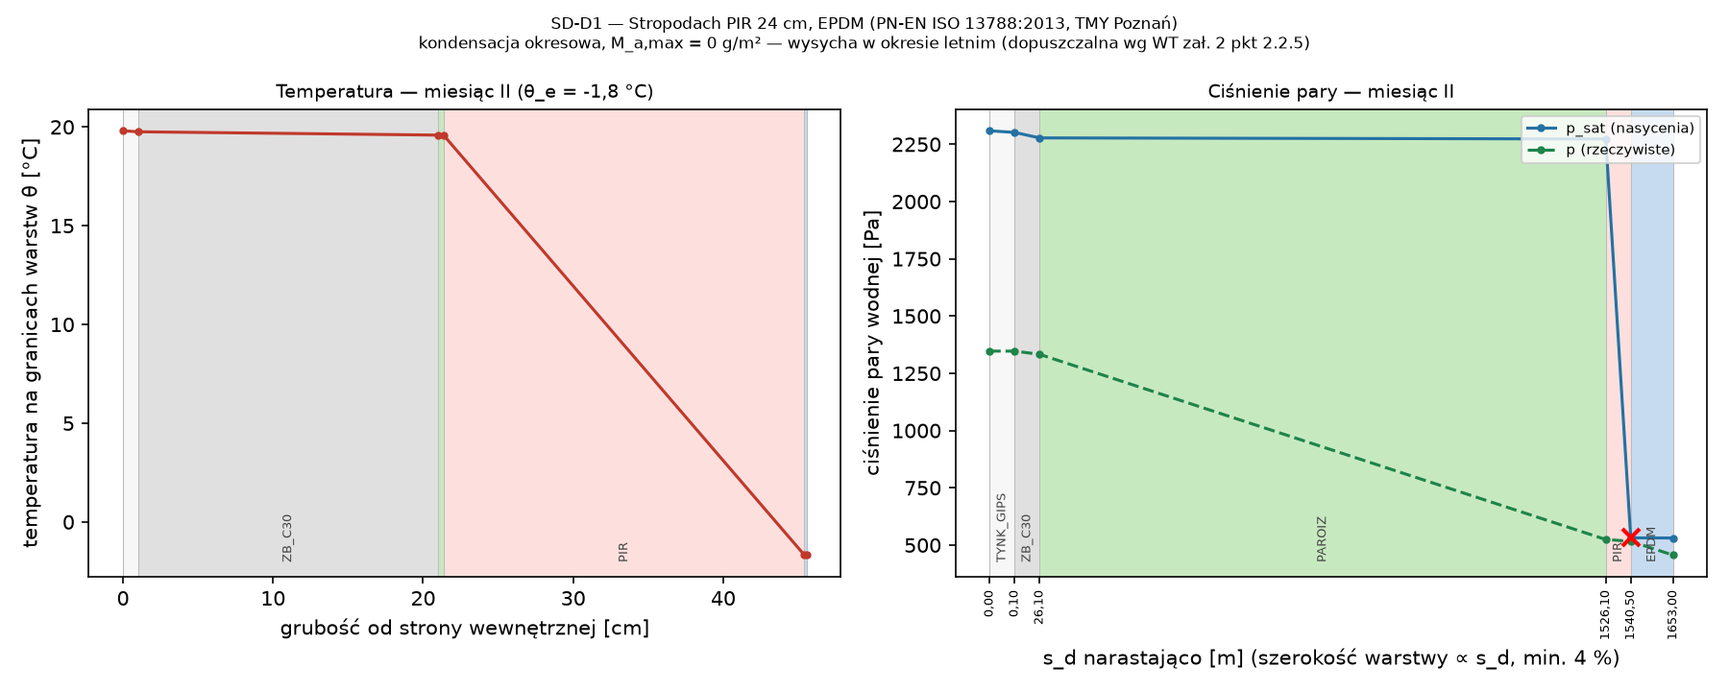
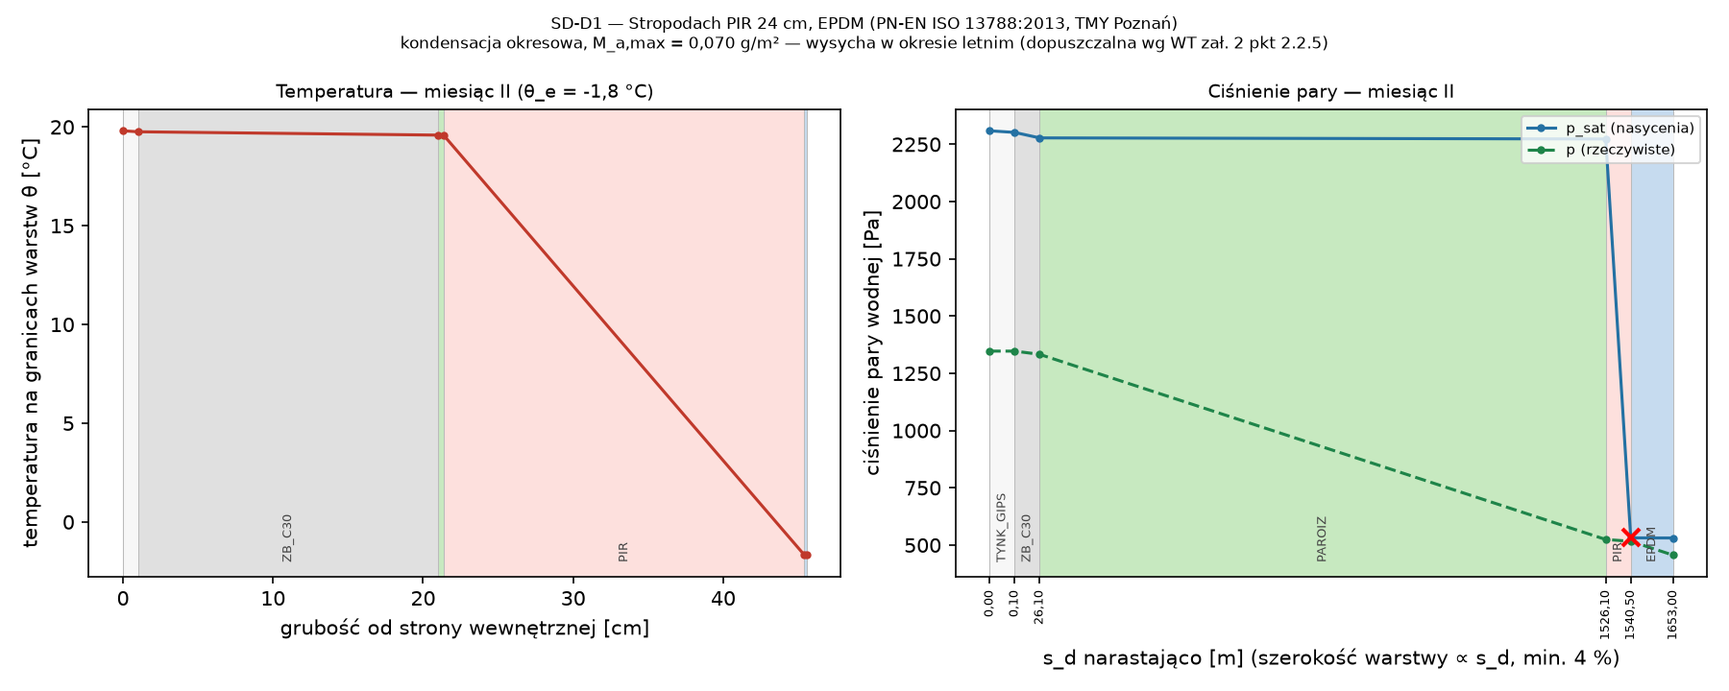
Prace robocze zespołów (autocommit)
Claude-Session: https://claude.ai/code/session_01FusXBHKDYGFEzgisqwGYyr

Changed region(s): [[0.2178, 0.0306, 0.7778, 0.0917]]

diff --git a/projekt/08_obliczenia/demo_test/dom_energia/09_charakterystyka_energetyczna.md b/projekt/08_obliczenia/demo_test/dom_energia/09_charakterystyka_energetyczna.md
@@ -14,11 +14,11 @@
 | okna i drzwi balkonowe | 16,00 |
 | drzwi zewnętrzne | 1,89 |
 | dachy/stropodachy | 9,03 |
-| stropy nad powietrzem zewn. | 0,55 |
+| stropy nad powietrzem zewn. | 0,63 |
 | grunt (f_g1·f_g2·G_w·A·U) | 4,64 |
 | przestrzenie nieogrzewane (b_u) | 8,22 |
 | mostki cieplne H_TB | 60,21 |
-| **H_tr razem** | **126,98** |
+| **H_tr razem** | **127,06** |
 | H_ve = 0,34·[(1 − η_oc)·V_su + V_x] (V_su = 150 m³/h, η_oc = 0,85, V_x = 29,9 m³/h) | 17,46 |
 
 A_f = 158,69 m²; V = 426,9 m³; θ_int,H = 20,64 °C; C_m = 41,3 MJ/K; τ = 79,3 h; a_H = 6,29.
@@ -28,15 +28,15 @@ A_f = 158,69 m²; V = 426,9 m³; θ_int,H = 20,64 °C; C_m = 41,3 MJ/K; τ = 79,
 | Wielkość | I | II | III | IV | V | VI | VII | VIII | IX | X | XI | XII | Rok |
 |:---|:---|:---|:---|:---|:---|:---|:---|:---|:---|:---|:---|:---|:---|
 | θ_e [°C] | 0,2 | −1,8 | 2,7 | 8,3 | 13,0 | 16,8 | 18,2 | 18,4 | 13,5 | 7,0 | 2,2 | −0,1 |  |
-| Q_tr | 1 935 | 1 911 | 1 692 | 1 132 | 726 | 348 | 226 | 213 | 651 | 1 288 | 1 689 | 1 963 | 13 773 |
+| Q_tr | 1 936 | 1 913 | 1 693 | 1 132 | 726 | 348 | 226 | 214 | 651 | 1 288 | 1 690 | 1 964 | 13 781 |
 | Q_ve | 266 | 263 | 233 | 156 | 100 | 48 | 31 | 29 | 90 | 177 | 232 | 270 | 1 894 |
 | Q_int | 803 | 725 | 803 | 777 | 803 | 777 | 803 | 803 | 777 | 803 | 777 | 803 | 9 453 |
 | Q_sol | 264 | 295 | 507 | 618 | 708 | 753 | 738 | 645 | 514 | 348 | 250 | 150 | 5 789 |
 | γ | 0,48 | 0,47 | 0,68 | 1,08 | 1,83 | 3,86 | 6,00 | 5,96 | 1,74 | 0,79 | 0,53 | 0,43 |  |
 | η_H,gn | 0,995 | 0,995 | 0,970 | 0,826 | 0,541 | 0,259 | 0,167 | 0,168 | 0,566 | 0,943 | 0,991 | 0,997 |  |
-| Q_H,nd | 1 139 | 1 159 | 655 | 135 | 8 | 0 | 0 | 0 | 10 | 379 | 903 | 1 283 | 5 672 |
+| Q_H,nd | 1 140 | 1 160 | 656 | 136 | 9 | 0 | 0 | 0 | 10 | 380 | 904 | 1 284 | 5 679 |
 | Q_W,nd | 325 | 293 | 325 | 314 | 325 | 314 | 325 | 325 | 314 | 325 | 314 | 325 | 3 822 |
-| Q_K,H | 296 | 301 | 170 | 35 | 2 | 0 | 0 | 0 | 3 | 99 | 235 | 334 | 1 475 |
+| Q_K,H | 297 | 302 | 171 | 35 | 2 | 0 | 0 | 0 | 3 | 99 | 235 | 334 | 1 477 |
 | Q_K,W | 162 | 146 | 162 | 157 | 162 | 157 | 162 | 162 | 157 | 162 | 157 | 162 | 1 908 |
 | E_pom | 62 | 56 | 62 | 60 | 44 | 42 | 44 | 44 | 42 | 62 | 60 | 62 | 641 |
 | E_PV | 126 | 154 | 303 | 396 | 516 | 517 | 492 | 421 | 311 | 184 | 121 | 73 | 3 614 |
@@ -50,7 +50,7 @@ A_f = 158,69 m²; V = 426,9 m³; θ_int,H = 20,64 °C; C_m = 41,3 MJ/K; τ = 79,
 | System | η_g | η_s | η_d | η_e | η_tot | Źródło |
 |:---|---:|---:|---:|---:|---:|:---|
 | ogrzewanie | 4,500 | 1,00 | 0,96 | 0,89 | 3,845 | SCOP = 4,50 (PN-EN 14825, dane przykładowe z karty katalogowej typowej pompy ciepła powietrze–woda R290 klasy A+++ (35 °C) 7–8 kW (lub równoważna)); η_H,e = 0,89 (tab. 3 lp. 6b), η_H,d = 0,96 (tab. 6 lp. 3a), η_H,s = 1,00 (tab. 8 lp. 3) |
-| c.w.u. | 3,200 | 0,888 | 0,80 | — | 2,273 | COP_cwu = 3,20 (PN-EN 16147); η_W,s = 0,888 (strata zasobnika 55 W); η_W,d = 0,80 (tab. 12 lp. 6.1a — cyrkulacja z ograniczeniem czasu pracy) |
+| c.w.u. | 3,200 | 0,888 | 0,80 | — | 2,273 | COP_cwu = 3,20 (PN-EN 16147); η_W,s = 0,888 (zasobnik 250 dm³, strata postojowa 55 W); η_W,d = 0,80 (tab. 12 lp. 6.1a — cyrkulacja z ograniczeniem czasu pracy) |
 
 | Urządzenie pomocnicze | P [W] | t [h/rok] | E [kWh/rok] | System |
 |:---|---:|---:|---:|:---|
@@ -63,10 +63,10 @@ A_f = 158,69 m²; V = 426,9 m³; θ_int,H = 20,64 °C; C_m = 41,3 MJ/K; τ = 79,
 
 | Wskaźnik | Wartość | Jedn. |
 |:---|---:|:---|
-| Q_H,nd (ogrzewanie i wentylacja) | 5 672 | kWh/rok |
+| Q_H,nd (ogrzewanie i wentylacja) | 5 679 | kWh/rok |
 | Q_W,nd (c.w.u., wzór (61)) | 3 822 | kWh/rok |
-| EU = (Q_H,nd + Q_W,nd)/A_f | 59,8 | kWh/(m²·rok) |
-| Q_K = Q_K,H + Q_K,W + E_el,pom | 4 025 | kWh/rok |
+| EU = (Q_H,nd + Q_W,nd)/A_f | 59,9 | kWh/(m²·rok) |
+| Q_K = Q_K,H + Q_K,W + E_el,pom | 4 026 | kWh/rok |
 | EK = Q_K/A_f | 25,4 | kWh/(m²·rok) |
 | Produkcja PV / zużyta przez systemy (w = 0) | 3 614 / 1 505 | kWh/rok |
 | EP_H (ogrzewanie + pomocnicze H) | 23,9 | kWh/(m²·rok) |
@@ -76,7 +76,7 @@ A_f = 158,69 m²; V = 426,9 m³; θ_int,H = 20,64 °C; C_m = 41,3 MJ/K; τ = 79,
 | Wynik | ✔ spełnia |  |
 | E_CO2 | 0,0088 | t CO2/(m²·rok) |
 | U_oze (wzór (100)) [INT] | 76,9 | % |
-| Koszt energii (eksploatacja) [ZAŁ] | 3 186 | zł/rok |
+| Koszt energii (eksploatacja) [ZAŁ] | 3 188 | zł/rok |
 
 Autokonsumpcja PV (symulacja godzinowa TMY): produkcja 3 614 kWh/rok, zużyta przez systemy techniczne 1 505 kWh/rok (a = 0,42), przez urządzenia domowe 682 kWh/rok; reszta oddana do sieci (nie obniża EP).
 
@@ -98,7 +98,7 @@ Autokonsumpcja PV (symulacja godzinowa TMY): produkcja 3 614 kWh/rok, zużyta 
 | Wariant | EP [kWh/(m²·rok)] | EP ≤ EP_max |
 |:---|:---|:---|
 | A (n50 = 4 h⁻¹ — brak próby szczelności) | 50,2 | ✔ spełnia |
-| A (Ψ „dobra praktyka” zamiast domyślnych PN-EN ISO 14683: H_TB = 15,9 zamiast 60,2 W/K) | 26,3 | ✔ spełnia |
+| A (Ψ „dobra praktyka” zamiast domyślnych PN-EN ISO 14683: H_TB = 15,9 zamiast 60,2 W/K) | 26,4 | ✔ spełnia |
 
 ---
 *Wygenerowano: 2026-09-25 — biblioteka `lamela.obliczenia` (PRZYKŁAD – NIE DO ZŁOŻENIA; dane wyrobów: [DANE PRZYKŁADOWE – FIKCYJNE]).*

diff --git a/projekt/08_obliczenia/demo_test/01_przegrody_U.md b/projekt/08_obliczenia/demo_test/01_przegrody_U.md
@@ -11,7 +11,7 @@
 |:---|:---|:---|---:|---:|---:|---:|:---|---:|:---|
 | POD-0 | Podłoga na gruncie | podłoga na gruncie | R_f = 4,42 | 0,000 | 0,17 | 0,30 | ✔ spełnia | 0,20 | ✔ spełnia |
 | SZ1 | Ściana zewnętrzna nośna, silikat 18 + ETICS EPS 20 | ściana zewnętrzna | 6,90 | 0,021 | 0,17 | 0,20 | ✔ spełnia | 0,15 | ✘ NIE spełnia |
-| SD-D1 | Stropodach pełny, odwrócony spadek PIR | stropodach/dach | 10,27 | 0,009 | 0,084 | 0,15 | ✔ spełnia | 0,12 | ✔ spełnia |
+| SD-D1 | Stropodach pełny, odwrócony spadek PIR | stropodach/dach | 10,25 | 0,010 | 0,084 | 0,15 | ✔ spełnia | 0,12 | ✔ spełnia |
 
 ### POD-0 — Podłoga na gruncie (podłoga na gruncie)
 
@@ -55,15 +55,15 @@ Kierunek strumienia: gora; R_si = 0,10 m²K/W, R_se = 0,04 m²K/W.
 |---:|:---|:---|:---|---:|---:|:---|
 | 5 | Tynk gipsowy maszynowy | tynk | 1,0 | 0,400 | 0,025 | jednorodna |
 | 4 | Żelbet C30/37 | konstrukcja | 20,0 | 2,300 | 0,087 | jednorodna |
-| 3 | Paroizolacja bitumiczna | paroizolacja | 0,2 | 0,230 | 0,009 | jednorodna |
+| 3 | Paroizolacja bitumiczna | paroizolacja | 0,2 | 0,230 | — | pominieta — membrana — opór cieplny pominięty (grubość rysunkowa) |
 | 2 | Płyty PIR (izolacja spadkowa) | izolacja | 22,0 | 0,022 | 10,000 | jednorodna |
-| 1 | Membrana EPDM 1,5 mm | hydroizolacja | 0,1 | 0,250 | 0,006 | jednorodna |
+| 1 | Membrana EPDM 1,5 mm | hydroizolacja | 0,1 | 0,250 | — | pominieta — membrana — opór cieplny pominięty (grubość rysunkowa) |
 
-R_T = 0,10 + Σ R_j + 0,04 = 10,267 m²K/W; U₀ = 1/R_T = 0,0974 W/(m²K).
+R_T = 0,10 + Σ R_j + 0,04 = 10,252 m²K/W; U₀ = 1/R_T = 0,0975 W/(m²K).
 
-Poprawki (zał. F): ΔU_g = 0,0095, ΔU_f = 0,0000, ΔU_r = 0,0000 W/(m²K); U_c = 0,1069 W/(m²K).
+Poprawki (zał. F): ΔU_g = 0,0095, ΔU_f = 0,0000, ΔU_r = 0,0000 W/(m²K); U_c = 0,1071 W/(m²K).
 
-Warstwa klinowa: U_śr = 0,0748 W/(m²K) (całkowanie numeryczne (zał. C, p. C.1), siatka 0,10 m, grubość rosnąca 2,0 % od wpustów); U = U_śr + ΣΔU = 0,0843 W/(m²K).
+Warstwa klinowa: U_śr = 0,0749 W/(m²K) (całkowanie numeryczne (zał. C, p. C.1), siatka 0,10 m, grubość rosnąca 2,0 % od wpustów); U = U_śr + ΣΔU = 0,0844 W/(m²K).
 
 **U = 0,084 W/(m²K)**; wymaganie WT: U ≤ 0,15 (✔ spełnia); cel: 0,12 (✔ spełnia). Źródło wymagania: WT zał. 2 pkt 1.1 lp. 5 (W-243); cel: R6 3.2; R3 3.6 [ZAŁ].
 * warstwa klinowa: U średnie wg PN-EN ISO 6946:2017 zał. C (całkowanie numeryczne (zał. C, p. C.1), siatka 0,10 m, grubość rosnąca 2,0 % od wpustów); d_min = 22,0 cm, d_max = 35,0 cm
@@ -73,7 +73,7 @@ Warstwa klinowa: U_śr = 0,0748 W/(m²K) (całkowanie numeryczne (zał. C, p. C.
 * Grunt: piasek — λ = 2,0 W/(m·K), ρc = 2,0 MJ/(m³·K) (PN-EN ISO 13370 tab. kategorii gruntu; opinia geotechniczna przykładowa: piaski średnie) [NZW]
 * f_g1 = 1,45, G_w = 1,00 (ZWG ≈ 3,8 m p.p.t. > 1 m), θ_m,e = 7,9 °C [NZW] — źródło: PN-EN 12831:2006 p. 7.1.3 i NA; rejestr W-150
 * Stolarka: U_g, U_f, Ψ_g, szerokości ram, g_n — dane przykładowe typowych wyrobów (dane/wyroby_przykladowe.yaml); do zastąpienia deklaracjami wybranego producenta [DANE PRZYKŁADOWE – FIKCYJNE]
-* Łączniki ETICS: n_f = 6,0 szt./m², χ_p = 0,002 W/K (ΔU_f = n_f·χ_p, PN-EN ISO 6946:2017 zał. F.3) [DANE PRZYKŁADOWE – FIKCYJNE] — źródło: dane przykładowe z ETA typowego łącznika ETICS z trzpieniem stalowym, χ_p = 0,002 W/K (lub równoważny)
+* Łączniki izolacji mocowanej mechanicznie (ETICS, elewacja wentylowana, docieplenie spodu stropu): n_f = 6,0 szt./m², χ_p = 0,002 W/K (ΔU_f = n_f·χ_p, PN-EN ISO 6946:2017 zał. F.3) [DANE PRZYKŁADOWE – FIKCYJNE] — źródło: dane przykładowe z ETA typowego łącznika ETICS z trzpieniem stalowym, χ_p = 0,002 W/K (lub równoważny)
 * Nieszczelności w warstwie izolacji: poziom 1 (ΔU'' = 0,01 W/(m²·K)), chyba że wykazano poziom 0 [NZW] — źródło: PN-EN ISO 6946:2017 zał. F.2; rejestr W-250
 * Izolacja spadkowa dachu D1: grubość z modelu (22 cm) = grubość minimalna przy wpustach; przyrost wg spadku do najbliższego wpustu [ZAŁ]
 * Ψ węzłów bez wyników symulacji — wartości domyślne (fallback) PN-EN ISO 14683:2017 zał. C w systemie wymiarów wewnętrznych całkowitych (Ψ_oi); do zastąpienia wynikami ISO 10211 [NZW]

diff --git a/projekt/08_obliczenia/demo_test/09_charakterystyka_energetyczna.md b/projekt/08_obliczenia/demo_test/09_charakterystyka_energetyczna.md
@@ -13,12 +13,12 @@
 | ściany zewnętrzne | 24,60 |
 | okna i drzwi balkonowe | 35,14 |
 | drzwi zewnętrzne | 2,28 |
-| dachy/stropodachy | 6,13 |
+| dachy/stropodachy | 6,14 |
 | stropy nad powietrzem zewn. | 0,00 |
 | grunt (f_g1·f_g2·G_w·A·U) | 5,89 |
 | przestrzenie nieogrzewane (b_u) | 0,00 |
 | mostki cieplne H_TB | 67,83 |
-| **H_tr razem** | **141,85** |
+| **H_tr razem** | **141,86** |
 | H_ve = 0,34·[(1 − η_oc)·V_su + V_x] (V_su = 100 m³/h, η_oc = 0,85, V_x = 26,4 m³/h) | 13,79 |
 
 A_f = 139,52 m²; V = 376,7 m³; θ_int,H = 20,00 °C; C_m = 36,3 MJ/K; τ = 64,7 h; a_H = 5,32.
@@ -28,13 +28,13 @@ A_f = 139,52 m²; V = 376,7 m³; θ_int,H = 20,00 °C; C_m = 36,3 MJ/K; τ = 64,
 | Wielkość | I | II | III | IV | V | VI | VII | VIII | IX | X | XI | XII | Rok |
 |:---|:---|:---|:---|:---|:---|:---|:---|:---|:---|:---|:---|:---|:---|
 | θ_e [°C] | 0,2 | −1,8 | 2,7 | 8,3 | 13,0 | 16,8 | 18,2 | 18,4 | 13,5 | 7,0 | 2,2 | −0,1 |  |
-| Q_tr | 2 094 | 2 074 | 1 823 | 1 199 | 743 | 324 | 185 | 171 | 662 | 1 371 | 1 821 | 2 126 | 14 591 |
+| Q_tr | 2 094 | 2 074 | 1 823 | 1 199 | 743 | 324 | 185 | 171 | 662 | 1 371 | 1 821 | 2 126 | 14 592 |
 | Q_ve | 204 | 202 | 177 | 117 | 72 | 31 | 18 | 17 | 64 | 133 | 177 | 207 | 1 418 |
 | Q_int | 706 | 638 | 706 | 683 | 706 | 683 | 706 | 706 | 683 | 706 | 683 | 706 | 8 311 |
 | Q_sol | 423 | 491 | 849 | 1 141 | 1 383 | 1 493 | 1 457 | 1 237 | 930 | 597 | 402 | 263 | 10 667 |
 | γ | 0,49 | 0,50 | 0,78 | 1,39 | 2,56 | 6,13 | 10,67 | 10,35 | 2,22 | 0,87 | 0,54 | 0,42 |  |
 | η_H,gn | 0,988 | 0,988 | 0,927 | 0,681 | 0,389 | 0,163 | 0,094 | 0,097 | 0,447 | 0,895 | 0,982 | 0,994 |  |
-| Q_H,nd | 1 182 | 1 161 | 559 | 74 | 3 | 0 | 0 | 0 | 6 | 338 | 933 | 1 368 | 5 623 |
+| Q_H,nd | 1 182 | 1 161 | 559 | 74 | 3 | 0 | 0 | 0 | 6 | 338 | 933 | 1 369 | 5 624 |
 | Q_W,nd | 285 | 258 | 285 | 276 | 285 | 276 | 285 | 285 | 276 | 285 | 276 | 285 | 3 361 |
 | Q_K,H | 307 | 302 | 145 | 19 | 1 | 0 | 0 | 0 | 2 | 88 | 243 | 356 | 1 463 |
 | Q_K,W | 147 | 133 | 147 | 142 | 147 | 142 | 147 | 147 | 142 | 147 | 142 | 147 | 1 728 |
@@ -50,7 +50,7 @@ A_f = 139,52 m²; V = 376,7 m³; θ_int,H = 20,00 °C; C_m = 36,3 MJ/K; τ = 64,
 | System | η_g | η_s | η_d | η_e | η_tot | Źródło |
 |:---|---:|---:|---:|---:|---:|:---|
 | ogrzewanie | 4,500 | 1,00 | 0,96 | 0,89 | 3,845 | SCOP = 4,50 (PN-EN 14825, dane przykładowe z karty katalogowej typowej pompy ciepła powietrze–woda R290 klasy A+++ (35 °C) 7–8 kW (lub równoważna)); η_H,e = 0,89 (tab. 3 lp. 6b), η_H,d = 0,96 (tab. 6 lp. 3a), η_H,s = 1,00 (tab. 8 lp. 3) |
-| c.w.u. | 3,200 | 0,875 | 0,80 | — | 2,239 | COP_cwu = 3,20 (PN-EN 16147); η_W,s = 0,875 (strata zasobnika 55 W); η_W,d = 0,80 (tab. 12 lp. 6.1a — cyrkulacja z ograniczeniem czasu pracy) |
+| c.w.u. | 3,200 | 0,875 | 0,80 | — | 2,239 | COP_cwu = 3,20 (PN-EN 16147); η_W,s = 0,875 (zasobnik 250 dm³, strata postojowa 55 W); η_W,d = 0,80 (tab. 12 lp. 6.1a — cyrkulacja z ograniczeniem czasu pracy) |
 
 | Urządzenie pomocnicze | P [W] | t [h/rok] | E [kWh/rok] | System |
 |:---|---:|---:|---:|:---|
@@ -63,7 +63,7 @@ A_f = 139,52 m²; V = 376,7 m³; θ_int,H = 20,00 °C; C_m = 36,3 MJ/K; τ = 64,
 
 | Wskaźnik | Wartość | Jedn. |
 |:---|---:|:---|
-| Q_H,nd (ogrzewanie i wentylacja) | 5 623 | kWh/rok |
+| Q_H,nd (ogrzewanie i wentylacja) | 5 624 | kWh/rok |
 | Q_W,nd (c.w.u., wzór (61)) | 3 361 | kWh/rok |
 | EU = (Q_H,nd + Q_W,nd)/A_f | 64,4 | kWh/(m²·rok) |
 | Q_K = Q_K,H + Q_K,W + E_el,pom | 3 709 | kWh/rok |
@@ -98,7 +98,7 @@ Autokonsumpcja PV (symulacja godzinowa TMY): produkcja 5 421 kWh/rok, zużyta 
 | Wariant | EP [kWh/(m²·rok)] | EP ≤ EP_max |
 |:---|:---|:---|
 | A (n50 = 4 h⁻¹ — brak próby szczelności) | 45,7 | ✔ spełnia |
-| A (Ψ „dobra praktyka” zamiast domyślnych PN-EN ISO 14683: H_TB = 18,3 zamiast 67,8 W/K) | 22,1 | ✔ spełnia |
+| A (Ψ „dobra praktyka” zamiast domyślnych PN-EN ISO 14683: H_TB = 18,3 zamiast 67,8 W/K) | 22,2 | ✔ spełnia |
 
 ---
 *Wygenerowano: 2026-09-25 — biblioteka `lamela.obliczenia` (PRZYKŁAD – NIE DO ZŁOŻENIA; dane wyrobów: [DANE PRZYKŁADOWE – FIKCYJNE]).*

diff --git a/projekt/08_obliczenia/demo_test/dom_energia/01_przegrody_U.md b/projekt/08_obliczenia/demo_test/dom_energia/01_przegrody_U.md
@@ -16,7 +16,7 @@
 | SWG | Ściana dom–garaż, silikat 18 + EPS 12 od garażu | ściana do pom. nieogrzewanego | 4,41 | 0,020 | 0,25 | 0,30 | ✔ spełnia | 0,25 | ✔ spełnia |
 | SZG | Ściana zewnętrzna garażu nieogrzewanego, silikat 24 | ściana zewnętrzna | 0,51 | 0,000 | 2,0 | — | — | — | — |
 | SD-G | Dach garażu (nieogrzewany) | stropodach/dach | 0,23 | 0,000 | 4,3 | — | — | — | — |
-| ST3\|P1\|zewn | podłoga POD-1 + płyta ZB_C30 20 cm + sufit SUF-Z | strop nad powietrzem zewn. | 11,76 | 0,005 | 0,090 | 0,15 | ✔ spełnia | — | — |
+| ST3\|P1\|zewn | podłoga POD-1 + płyta ZB_C30 20 cm + sufit SUF-Z | strop nad powietrzem zewn. | 11,76 | 0,017 | 0,10 | 0,15 | ✔ spełnia | — | — |
 | SD-D1 | Stropodach PIR 24 cm, EPDM | stropodach/dach | 11,18 | 0,010 | 0,082 | 0,15 | ✔ spełnia | 0,12 | ✔ spełnia |
 | ST2\|P1\|dol | podłoga POD-1 + płyta ZB_C30 20 cm + sufit SUF-G | strop nad pom. nieogrzewanym | 10,28 | 0,004 | 0,10 | 0,25 | ✔ spełnia | — | — |
 
@@ -156,9 +156,9 @@ Kierunek strumienia: dol; R_si = 0,17 m²K/W, R_se = 0,04 m²K/W.
 
 R_T = 0,17 + Σ R_j + 0,04 = 11,760 m²K/W; U₀ = 1/R_T = 0,0850 W/(m²K).
 
-Poprawki (zał. F): ΔU_g = 0,0047, ΔU_f = 0,0000, ΔU_r = 0,0000 W/(m²K); U_c = 0,0897 W/(m²K).
+Poprawki (zał. F): ΔU_g = 0,0047, ΔU_f = 0,0120, ΔU_r = 0,0000 W/(m²K); U_c = 0,1017 W/(m²K).
 
-**U = 0,090 W/(m²K)**; wymaganie WT: U ≤ 0,15 (✔ spełnia); cel: — (—). Źródło wymagania: WT zał. 2 pkt 1.1 lp. 5 („nad przejazdami”) — spód wspornika P2 (W-243) [INT].
+**U = 0,10 W/(m²K)**; wymaganie WT: U ≤ 0,15 (✔ spełnia); cel: — (—). Źródło wymagania: WT zał. 2 pkt 1.1 lp. 5 („nad przejazdami”) — spód wspornika P2 (W-243) [INT].
 
 ### SD-D1 — Stropodach PIR 24 cm, EPDM (stropodach/dach)
 
@@ -205,7 +205,7 @@ Poprawki (zał. F): ΔU_g = 0,0039, ΔU_f = 0,0000, ΔU_r = 0,0000 W/(m²K); U_c
 * Grunt: piasek — λ = 2,0 W/(m·K), ρc = 2,0 MJ/(m³·K) (PN-EN ISO 13370 tab. kategorii gruntu; opinia geotechniczna przykładowa: piaski średnie) [NZW]
 * f_g1 = 1,45, G_w = 1,00 (ZWG ≈ 3,8 m p.p.t. > 1 m), θ_m,e = 7,9 °C [NZW] — źródło: PN-EN 12831:2006 p. 7.1.3 i NA; rejestr W-150
 * Stolarka: U_g, U_f, Ψ_g, szerokości ram, g_n — dane przykładowe typowych wyrobów (dane/wyroby_przykladowe.yaml); do zastąpienia deklaracjami wybranego producenta [DANE PRZYKŁADOWE – FIKCYJNE]
-* Łączniki ETICS: n_f = 6,0 szt./m², χ_p = 0,002 W/K (ΔU_f = n_f·χ_p, PN-EN ISO 6946:2017 zał. F.3) [DANE PRZYKŁADOWE – FIKCYJNE] — źródło: dane przykładowe z ETA typowego łącznika ETICS z trzpieniem stalowym, χ_p = 0,002 W/K (lub równoważny)
+* Łączniki izolacji mocowanej mechanicznie (ETICS, elewacja wentylowana, docieplenie spodu stropu): n_f = 6,0 szt./m², χ_p = 0,002 W/K (ΔU_f = n_f·χ_p, PN-EN ISO 6946:2017 zał. F.3) [DANE PRZYKŁADOWE – FIKCYJNE] — źródło: dane przykładowe z ETA typowego łącznika ETICS z trzpieniem stalowym, χ_p = 0,002 W/K (lub równoważny)
 * Nieszczelności w warstwie izolacji: poziom 1 (ΔU'' = 0,01 W/(m²·K)), chyba że wykazano poziom 0 [NZW] — źródło: PN-EN ISO 6946:2017 zał. F.2; rejestr W-250
 * Ψ węzłów bez wyników symulacji — wartości domyślne (fallback) PN-EN ISO 14683:2017 zał. C w systemie wymiarów wewnętrznych całkowitych (Ψ_oi); do zastąpienia wynikami ISO 10211 [NZW]
 * Zacienienie stałe (okapy — płyty wysunięte, lamele) — F_sh z danych godzinowych TMY Poznań i położenia Słońca; model izotropowy nieba, ρ_g = 0,2 [ZAŁ] — źródło: PN-EN ISO 52016-1 p. 6.5.13 (idea); lamela.sun

diff --git a/projekt/05_PT_instalacje_sanitarne/BRAKI_DANYCH.md b/projekt/05_PT_instalacje_sanitarne/BRAKI_DANYCH.md
@@ -6,10 +6,9 @@ Plik generowany automatycznie przez `lamela.views.instalacje` przy tworzeniu rys
 
 | Lp. | Element | Brak / stan w modelu | Proponowany format pola | Arkusze |
 |---:|:---|:---|:---|:---|
-| 1 | Pion/szacht wentylacyjny (SUP, ETA) | brak w modelu szachtu wentylacyjnego (szacht SI zajęty przez piony wod.-kan. i deszczowe) — przyjęto lokalizację proponowaną algorytmicznie | pomieszczenia: {nazwa: 'Szacht wentylacyjny SW', wielobok} + instalacje.piony: [{id: W1, xy, rodzaj: wentylacja, kond: [P0, P1, P2]}] | PT-IS-08, PT-IS-09 |
-| 2 | Piony c.o. (zasilanie rozdzielaczy P1, P2) | brak tras pionów c.o. w instalacje.yaml — przyjęto pion proponowany przy rozdzielaczu R-P1 | piony: [{id: PCO, xy: [x, y], rodzaj: co, kond: [P0, P1, P2], opis}] | PT-IS-06, PT-IS-07 |
-| 3 | Trasy przewodów (woda, kanalizacja, c.o., wentylacja) | model nie zawiera przebiegów przewodów — trasy wyznaczono algorytmicznie (ortogonalnie, przy ścianach, z pionów/rozdzielaczy do przyborów) | instalacje.trasy: [{medium: Wz\|Wc\|Cyrk\|Ks\|Z\|P\|SUP\|ETA, kond, linia: [[x, y], …], dn, z}] | PT-IS-01, PT-IS-02, PT-IS-03, PT-IS-04, PT-IS-05, PT-IS-06, PT-IS-07, PT-IS-08, PT-IS-09 |
-| 4 | instalacje.piony — rodzaj pionu | lista pionów zawiera rury spustowe (RS…) bez pola `rodzaj`; biblioteka grupowania pionów traktowała je jako piony wod.-kan. — w obliczeniach do rysunków odfiltrowane | piony: [{id, xy, rodzaj: kanalizacja\|deszczowa\|woda\|co\|wentylacja\|teletechnika, kond: [P0, …], opis}] | PT-IS-01, PT-IS-02, PT-IS-03, PT-IS-04, PT-IS-05, PT-IS-06, PT-IS-07, PT-IS-08, PT-IS-09 |
-| 5 | instalacje.wyroby | brak danych wyrobów (DTR/DWU) — obliczenia na danych przykładowych bibliotek (PC, wodomierz ∆p(Q3), EA k_v, wpusty, centrala went., moduł PV, falownik) | wyroby: {PC: {P_A7W35, COP, SCOP_35, L_WA}, wodomierz: {DN, Q3, dp_Q3}, EA: {kv}, centrala: {V_nom, eta_t, SFP}, PV: {modul: {...}, falownik: {...}}} | PT-IS-01, PT-IS-02, PT-IS-03, PT-IS-04, PT-IS-05, PT-IS-06, PT-IS-07, PT-IS-08, PT-IS-09 |
+| 1 | Piony c.o. (zasilanie rozdzielaczy P1, P2) | brak tras pionów c.o. w instalacje.yaml — przyjęto pion proponowany przy rozdzielaczu R-P1 | piony: [{id: PCO, xy: [x, y], rodzaj: co, kond: [P0, P1, P2], opis}] | PT-IS-06 |
+| 2 | Trasy przewodów (woda, kanalizacja, c.o., wentylacja) | model nie zawiera przebiegów przewodów — trasy wyznaczono algorytmicznie (ortogonalnie, przy ścianach, z pionów/rozdzielaczy do przyborów) | instalacje.trasy: [{medium: Wz\|Wc\|Cyrk\|Ks\|Z\|P\|SUP\|ETA, kond, linia: [[x, y], …], dn, z}] | PT-IS-06 |
+| 3 | instalacje.piony — rodzaj pionu | lista pionów zawiera rury spustowe (RS…) bez pola `rodzaj`; biblioteka grupowania pionów traktowała je jako piony wod.-kan. — w obliczeniach do rysunków odfiltrowane | piony: [{id, xy, rodzaj: kanalizacja\|deszczowa\|woda\|co\|wentylacja\|teletechnika, kond: [P0, …], opis}] | PT-IS-06 |
+| 4 | instalacje.wyroby | brak danych wyrobów (DTR/DWU) — obliczenia na danych przykładowych bibliotek (PC, wodomierz ∆p(Q3), EA k_v, wpusty, centrala went., moduł PV, falownik) | wyroby: {PC: {P_A7W35, COP, SCOP_35, L_WA}, wodomierz: {DN, Q3, dp_Q3}, EA: {kv}, centrala: {V_nom, eta_t, SFP}, PV: {modul: {...}, falownik: {...}}} | PT-IS-06 |
 
 Po uzupełnieniu danych w `model/*.yaml` (lub w `tools/buduj_model.py`) wystarczy ponownie wygenerować arkusze: `PYTHONPATH=src python3 tools/generuj_widoki.py --arkusze model/arkusze_is.yaml --out projekt/05_PT_instalacje_sanitarne/rysunki` (analogicznie `arkusze_ie.yaml`).

diff --git a/projekt/08_obliczenia/demo_test/dom_energia/05_wilgotnosc.md b/projekt/08_obliczenia/demo_test/dom_energia/05_wilgotnosc.md
@@ -29,7 +29,7 @@ Miesiąc krytyczny: **II**, f_Rsi,max = **0,661**; wartość dopuszczona przez W
 | SZ1 | przegroda (sciana_zewn), U = 0,17 | 0,959 | 1 − U·0,25 (PN-EN ISO 13788 p. 4.3) | ✔ spełnia |
 | DZ-P0 | przegroda (dach), U = 0,10 | 0,974 | 1 − U·0,25 (PN-EN ISO 13788 p. 4.3) | ✔ spełnia |
 | SWG | przegroda (sciana_nieogrz), U = 0,25 | 0,938 | 1 − U·0,25 (PN-EN ISO 13788 p. 4.3) | ✔ spełnia |
-| ST3\|P1\|zewn | przegroda (strop_zewn), U = 0,090 | 0,978 | 1 − U·0,25 (PN-EN ISO 13788 p. 4.3) | ✔ spełnia |
+| ST3\|P1\|zewn | przegroda (strop_zewn), U = 0,10 | 0,975 | 1 − U·0,25 (PN-EN ISO 13788 p. 4.3) | ✔ spełnia |
 | SD-D1 | przegroda (dach), U = 0,082 | 0,979 | 1 − U·0,25 (PN-EN ISO 13788 p. 4.3) | ✔ spełnia |
 | ST2\|P1\|dol | przegroda (strop_nieogrz), U = 0,10 | 0,975 | 1 − U·0,25 (PN-EN ISO 13788 p. 4.3) | ✔ spełnia |
 | WZ-R1 | Attyka stropodachu D1 (attyka) | — | do wyznaczenia — symulacja PN-EN ISO 10211 (mostki2d) | — |
@@ -107,7 +107,7 @@ Wymagane s_d paroizolacji (po ciepłej stronie izolacji): brak kondensacji — 0
 Wymagane s_d paroizolacji (po ciepłej stronie izolacji): brak kondensacji — 0 (nie wymaga) m; kondensacja dopuszczalna (wysycha, M_a ≤ 500 g/m²) — 0 (nie wymaga) m; istniejąca warstwa: brak.
 
 ![Glaser SWG](glaser_SWG.png)
-* strona zimna — przestrzeń nieogrzewana 0.04: θ_u,n = 20 − b_u·(20 − θ_e,n), b_u = 0,87; ciśnienie pary jak na zewnątrz
+* strona zimna — przestrzeń nieogrzewana (Garaż): θ_u,n = 20 − b_u·(20 − θ_e,n), b_u = 0,87; ciśnienie pary jak na zewnątrz
 
 ### ST3|P1|zewn — podłoga POD-1 + płyta ZB_C30 20 cm + sufit SUF-Z
 
@@ -153,7 +153,7 @@ Wymagane s_d paroizolacji (po ciepłej stronie izolacji): brak kondensacji — 0
 
 Płaszczyzny kondensacji (numer granicy za warstwą): 4 — między „PIR” a „EPDM”
 
-**Ocena:** kondensacja okresowa, M_a,max = 0 g/m² — wysycha w okresie letnim (dopuszczalna wg WT zał. 2 pkt 2.2.5). Warunki wewnętrzne: klasa wilgotności 3 (PN-EN ISO 13788 zał. A: budynki o nieznanym zagęszczeniu), p_i = p_e + 1,10·Δp.
+**Ocena:** kondensacja okresowa, M_a,max = 0,070 g/m² — wysycha w okresie letnim (dopuszczalna wg WT zał. 2 pkt 2.2.5). Warunki wewnętrzne: klasa wilgotności 3 (PN-EN ISO 13788 zał. A: budynki o nieznanym zagęszczeniu), p_i = p_e + 1,10·Δp.
 
 Wymagane s_d paroizolacji (po ciepłej stronie izolacji): brak kondensacji — > 1500 (nieosiągalne) m; kondensacja dopuszczalna (wysycha, M_a ≤ 500 g/m²) — 43,0 m; istniejąca warstwa: PAROIZ, s_d = 1 500,0 m (✔ spełnia).
 
@@ -175,7 +175,7 @@ Wymagane s_d paroizolacji (po ciepłej stronie izolacji): brak kondensacji — >
 Wymagane s_d paroizolacji (po ciepłej stronie izolacji): brak kondensacji — 0 (nie wymaga) m; kondensacja dopuszczalna (wysycha, M_a ≤ 500 g/m²) — 0 (nie wymaga) m; istniejąca warstwa: brak.
 
 ![Glaser ST2|P1|dol](glaser_ST2_P1_dol.png)
-* strona zimna — przestrzeń nieogrzewana 0.04: θ_u,n = 20 − b_u·(20 − θ_e,n), b_u = 0,87; ciśnienie pary jak na zewnątrz
+* strona zimna — przestrzeń nieogrzewana (Garaż): θ_u,n = 20 − b_u·(20 − θ_e,n), b_u = 0,87; ciśnienie pary jak na zewnątrz
 
 **Założenia i dane wejściowe:**
 

diff --git a/projekt/08_obliczenia/demo_test/dom_energia/08_obciazenie_cieplne.md b/projekt/08_obliczenia/demo_test/dom_energia/08_obciazenie_cieplne.md
@@ -11,10 +11,10 @@
 | 0.01 | Pokój dzienny | 20 | 45,3 | 1 497 | 7,3 | 59 | 0 | 160 | 0 | 1 657 | 36,6 |
 | 0.02 | Łazienka | 24 | 10,8 | 584 | 1,2 | 0 | 50 | 83 | 0 | 667 | 61,9 |
 | 0.03 | Kuchnia | 20 | 18,4 | 490 | 2,0 | 0 | 50 | 25 | 0 | 515 | 28,0 |
-| 1.01 | Sypialnia | 20 | 51,2 | 1 302 | 5,5 | 67 | 0 | 146 | 0 | 1 448 | 28,3 |
-| 1.02 | Łazienka | 24 | 14,6 | 693 | 1,6 | 0 | 50 | 89 | 0 | 782 | 53,6 |
+| 1.01 | Sypialnia | 20 | 51,2 | 1 303 | 5,5 | 67 | 0 | 146 | 0 | 1 450 | 28,3 |
+| 1.02 | Łazienka | 24 | 14,6 | 694 | 1,6 | 0 | 50 | 89 | 0 | 783 | 53,7 |
 | 1.03 | Pokój | 20 | 18,4 | 504 | 2,0 | 24 | 0 | 53 | 0 | 557 | 30,2 |
-|  | **Budynek** |  | 158,7 | 5 070 |  |  |  | 430 | 0 | **5 500** | 34,7 |
+|  | **Budynek** |  | 158,7 | 5 073 |  |  |  | 430 | 0 | **5 503** | 34,7 |
 
 θ_e = −18 °C; nawiew po odzysku θ_su = 16,6 °C (η = 0,85); n50 = 1,0 h⁻¹. Budynek: infiltracja z wsp. jednoczesności 0,5.
 Przestrzeń nieogrzewana 0.04: θ_u = −13,0 °C (b_u = 0,87).
@@ -76,7 +76,7 @@ Charakterystyka mocy PC — interpolacja liniowa punktów A−15/A−7/A2 (W35) 
 | F019 | grunt POD-0 (f_g1·f_g2·G_w = 0,462) | 18,41 | 0,130 | 38,0 | 42 |
 | TB | mostki (H_TB rozdzielone proporcjonalnie do pola obudowy) | 45,71 | — | 38,0 | 253 |
 
-**1.01 Sypialnia** (θ = 20 °C): Φ_T = 1 302 W
+**1.01 Sypialnia** (θ = 20 °C): Φ_T = 1 303 W
 
 | Element | Opis | A [m²] | U [W/(m²K)] | ΔT [K] | Φ [W] |
 |:---|:---|---:|---:|---:|---:|
@@ -85,11 +85,11 @@ Charakterystyka mocy PC — interpolacja liniowa punktów A−15/A−7/A2 (W35) 
 | W027 | sciana_zewn SZ1 | 6,51 | 0,166 | 38,0 | 41 |
 | W029 | sciana_zewn SZ1 | 15,71 | 0,166 | 38,0 | 99 |
 | F030 | strop_wewn → 0.02 (24 °C) | 8,04 | 0,268 | −4,0 | −9 |
-| F031 | strop_zewn ST3 | 3,42 | 0,090 | 38,0 | 12 |
+| F031 | strop_zewn ST3 | 3,42 | 0,102 | 38,0 | 13 |
 | R032 | dach SD-D1 | 51,16 | 0,082 | 38,0 | 160 |
 | TB | mostki (H_TB rozdzielone proporcjonalnie do pola obudowy) | 109,74 | — | 38,0 | 608 |
 
-**1.02 Łazienka** (θ = 24 °C): Φ_T = 693 W
+**1.02 Łazienka** (θ = 24 °C): Φ_T = 694 W
 
 | Element | Opis | A [m²] | U [W/(m²K)] | ΔT [K] | Φ [W] |
 |:---|:---|---:|---:|---:|---:|
@@ -99,7 +99,7 @@ Charakterystyka mocy PC — interpolacja liniowa punktów A−15/A−7/A2 (W35) 
 | O1-02 | okno OP2 | 0,48 | 0,889 | 42,0 | 18 |
 | W036 | sciana_zewn SZ1 | 9,83 | 0,166 | 42,0 | 68 |
 | F037 | strop_nieogrz → 0.04 (θ_u = −13,0 °C) | 7,47 | 0,101 | 37,0 | 28 |
-| F038 | strop_zewn ST3 | 2,74 | 0,090 | 42,0 | 10 |
+| F038 | strop_zewn ST3 | 2,74 | 0,102 | 42,0 | 12 |
 | R039 | dach SD-D1 | 14,59 | 0,082 | 42,0 | 50 |
 | TB | mostki (H_TB rozdzielone proporcjonalnie do pola obudowy) | 45,43 | — | 42,0 | 278 |
 

diff --git a/projekt/08_obliczenia/demo_test/dom_energia/10_analiza_alternatyw.md b/projekt/08_obliczenia/demo_test/dom_energia/10_analiza_alternatyw.md
@@ -9,14 +9,14 @@
 
 | System | EU | EK | EP | EP ≤ 70 | E_CO2 [t/rok] | U_oze [%] | Koszt [zł/rok] [ZAŁ] | Nakłady [zł] [ZAŁ] |
 |:---|---:|---:|---:|:---|---:|---:|---:|---:|
-| A: PC R290 + PV + rekuperacja | 59,8 | 25,4 | 39,7 | ✔ spełnia | 1,39 | 77 | 3 186 | 70 000 |
-| A0: PC R290 + rekuperacja, bez PV | 59,8 | 25,4 | 63,4 | ✔ spełnia | 2,23 | 61 | 4 766 | 45 000 |
-| B: kocioł gazowy kondensacyjny + rekuperacja | 59,8 | 93,6 | 113,4 | ✘ NIE spełnia | 3,42 | 0 | 7 365 | 30 000 |
-| C: PC — wartości domyślne metodologii, bez PV | 59,8 | 39,9 | 99,8 | ✘ NIE spełnia | 3,50 | 51 | 7 190 | — |
+| A: PC R290 + PV + rekuperacja | 59,9 | 25,4 | 39,7 | ✔ spełnia | 1,39 | 77 | 3 188 | 70 000 |
+| A0: PC R290 + rekuperacja, bez PV | 59,9 | 25,4 | 63,4 | ✔ spełnia | 2,23 | 61 | 4 768 | 45 000 |
+| B: kocioł gazowy kondensacyjny + rekuperacja | 59,9 | 93,7 | 113,5 | ✘ NIE spełnia | 3,42 | 0 | 7 368 | 30 000 |
+| C: PC — wartości domyślne metodologii, bez PV | 59,9 | 39,9 | 99,8 | ✘ NIE spełnia | 3,50 | 51 | 7 192 | — |
 
 Jednostki: EU, EK, EP — kWh/(m²·rok). Koszt — energia systemów technicznych (ogrzewanie, c.w.u., urządzenia pomocnicze) z sieci wg cen założonych + opłaty stałe; bez urządzeń gospodarstwa domowego i bez wartości energii PV oddanej do sieci lub zużytej przez urządzenia domowe (zachowawczo dla wariantów z PV). Nakłady — tylko elementy różniące warianty.
 
-**Wybór:** A: PC R290 + PV + rekuperacja — najniższe EP (39,7 kWh/(m²·rok)) spośród wariantów spełniających EP_max; roczny koszt energii niższy o 4 179 zł względem systemu konwencjonalnego (B), prosty okres zwrotu nakładów dodatkowych ≈ 9,6 lat.
+**Wybór:** A: PC R290 + PV + rekuperacja — najniższe EP (39,7 kWh/(m²·rok)) spośród wariantów spełniających EP_max; roczny koszt energii niższy o 4 181 zł względem systemu konwencjonalnego (B), prosty okres zwrotu nakładów dodatkowych ≈ 9,6 lat.
 
 ---
 *Wygenerowano: 2026-09-25 — biblioteka `lamela.obliczenia` (PRZYKŁAD – NIE DO ZŁOŻENIA; dane wyrobów: [DANE PRZYKŁADOWE – FIKCYJNE]).*

diff --git a/projekt/08_obliczenia/demo_test/10_analiza_alternatyw.md b/projekt/08_obliczenia/demo_test/10_analiza_alternatyw.md
@@ -10,13 +10,13 @@
 | System | EU | EK | EP | EP ≤ 70 | E_CO2 [t/rok] | U_oze [%] | Koszt [zł/rok] [ZAŁ] | Nakłady [zł] [ZAŁ] |
 |:---|---:|---:|---:|:---|---:|---:|---:|---:|
 | A: PC R290 + PV + rekuperacja | 64,4 | 26,6 | 37,0 | ✔ spełnia | 1,14 | 81 | 2 706 | 70 000 |
-| A0: PC R290 + rekuperacja, bez PV | 64,4 | 26,6 | 66,5 | ✔ spełnia | 2,05 | 63 | 4 434 | 45 000 |
+| A0: PC R290 + rekuperacja, bez PV | 64,4 | 26,6 | 66,5 | ✔ spełnia | 2,05 | 63 | 4 435 | 45 000 |
 | B: kocioł gazowy kondensacyjny + rekuperacja | 64,4 | 98,8 | 118,3 | ✘ NIE spełnia | 3,12 | 0 | 6 826 | 30 000 |
 | C: PC — wartości domyślne metodologii, bez PV | 64,4 | 41,7 | 104,2 | ✘ NIE spełnia | 3,22 | 52 | 6 647 | — |
 
 Jednostki: EU, EK, EP — kWh/(m²·rok). Koszt — energia systemów technicznych (ogrzewanie, c.w.u., urządzenia pomocnicze) z sieci wg cen założonych + opłaty stałe; bez urządzeń gospodarstwa domowego i bez wartości energii PV oddanej do sieci lub zużytej przez urządzenia domowe (zachowawczo dla wariantów z PV). Nakłady — tylko elementy różniące warianty.
 
-**Wybór:** A: PC R290 + PV + rekuperacja — najniższe EP (37,0 kWh/(m²·rok)) spośród wariantów spełniających EP_max; roczny koszt energii niższy o 4 119 zł względem systemu konwencjonalnego (B), prosty okres zwrotu nakładów dodatkowych ≈ 9,7 lat.
+**Wybór:** A: PC R290 + PV + rekuperacja — najniższe EP (37,0 kWh/(m²·rok)) spośród wariantów spełniających EP_max; roczny koszt energii niższy o 4 120 zł względem systemu konwencjonalnego (B), prosty okres zwrotu nakładów dodatkowych ≈ 9,7 lat.
 
 ---
 *Wygenerowano: 2026-09-25 — biblioteka `lamela.obliczenia` (PRZYKŁAD – NIE DO ZŁOŻENIA; dane wyrobów: [DANE PRZYKŁADOWE – FIKCYJNE]).*

diff --git a/projekt/08_obliczenia/demo_test/dom_energia/00_zestawienie.md b/projekt/08_obliczenia/demo_test/dom_energia/00_zestawienie.md
@@ -8,11 +8,11 @@ Model: `tools/test_obliczenia_dane/dom_energia.yaml` — model TESTOWY bibliotek
 |:---|:---|:---|
 | A_f (pow. o regulowanej temperaturze) | 158,69 m² |  |
 | Kubatura netto strefy ogrzewanej | 426,9 m³ |  |
-| H_tr / H_ve | 127,0 / 17,5 W/K |  |
+| H_tr / H_ve | 127,1 / 17,5 W/K |  |
 | H_TB (mostki) | 60,2 W/K | Ψ: domyślna, przykładowa |
 | Obciążenie cieplne Φ_HL (θ_e = −18 °C) | 5,50 kW | 34,7 W/m² |
 | Wentylacja — strumień projektowy | 150 m³/h | ✔ spełnia |
-| EU / EK / EP | 59,8 / 25,4 / **39,7** kWh/(m²·rok) | EP_max = 70 — ✔ spełnia |
+| EU / EK / EP | 59,9 / 25,4 / **39,7** kWh/(m²·rok) | EP_max = 70 — ✔ spełnia |
 | U_oze / E_CO2 | 76,9 % / 1,39 t/rok |  |
 
 ## Zgodność z wymaganiami (WT zał. 2, cele projektu)
@@ -23,7 +23,7 @@ Model: `tools/test_obliczenia_dane/dom_energia.yaml` — model TESTOWY bibliotek
 | U SZ1 (sciana_zewn) | 0,17 | ≤ 0,20 | ✔ spełnia | ≤ 0,15: ✘ NIE spełnia |
 | U DZ-P0 (dach) | 0,10 | ≤ 0,15 | ✔ spełnia | ≤ 0,12: ✔ spełnia |
 | U SWG (sciana_nieogrz) | 0,25 | ≤ 0,30 | ✔ spełnia | ≤ 0,25: ✔ spełnia |
-| U ST3\|P1\|zewn (strop_zewn) | 0,090 | ≤ 0,15 | ✔ spełnia | — |
+| U ST3\|P1\|zewn (strop_zewn) | 0,10 | ≤ 0,15 | ✔ spełnia | — |
 | U SD-D1 (dach) | 0,082 | ≤ 0,15 | ✔ spełnia | ≤ 0,12: ✔ spełnia |
 | U ST2\|P1\|dol (strop_nieogrz) | 0,10 | ≤ 0,25 | ✔ spełnia | — |
 | U_w DZ1 (drzwi_zewn) | 0,90 | ≤ 1,30 | ✔ spełnia | ≤ 1,10: ✔ spełnia |

diff --git a/src/lamela/dokumenty/README.md b/src/lamela/dokumenty/README.md
@@ -121,6 +121,7 @@ lub słownik; `None` — dobór po nazwie pliku. Pozycje (`listy_kontrolne.yaml`
 plik (nazwa, ≤ 150 MB, wektor, metadane, oprawa PT), strona tytułowa (§ 7 ust. 2 pkt 1–3), spis, numeracja,
 oświadczenie, punkty opisu (§ 14 pkt 1–8 PZT, § 20 ust. 1 pkt 1–14 PAB, § 23 PT), rysunki (w tym minimalna liczba
 rzutów/przekrojów/elewacji i skale ≤ 1:100 / 1:500), metryki arkuszy (`spec: tabliczki` — wiersz „Projektant” niepusty, „Sprawdzający” z osobą albo „nie dotyczy (art. 20 ust. 3 pkt 2 PB)”; W-305, W-320), § 23 pkt 12 w każdym tomie PT, ZL (informacja BIOZ pkt 1–6, zjazd, oświadczenie IS).
+Stan modelu (`spec: stan_modelu`, F-06 w PT_WSPOLNE): tom zawiera znacznik „stan modelu: SHA-256 xxxxxxxxxxxx (…)” z `stan_modelu()` (skrót plików danych `model/budynek.yaml`, `dzialka.yaml`, `instalacje.yaml`, `wyposazenie.yaml`); znacznik ≠ bieżący model → BRAK (tom nieaktualny, weryfikacja PT K-1), brak znacznika → OSTRZEŻENIE. Ten sam znacznik we wszystkich tomach PT i w tomie I wykazuje, że powstały z jednego stanu modelu.
 Wyszukuje po zakładkach, tekście strony tytułowej, tekście opisu i tytułach rysunków (wyrażenia regularne).
 
 Klucze pozycji poza `szukaj`: `uzupelnic_gdy` (+ `uzupelnic_opis`) — znaleziona treść zawiera znacznik zastępczy
